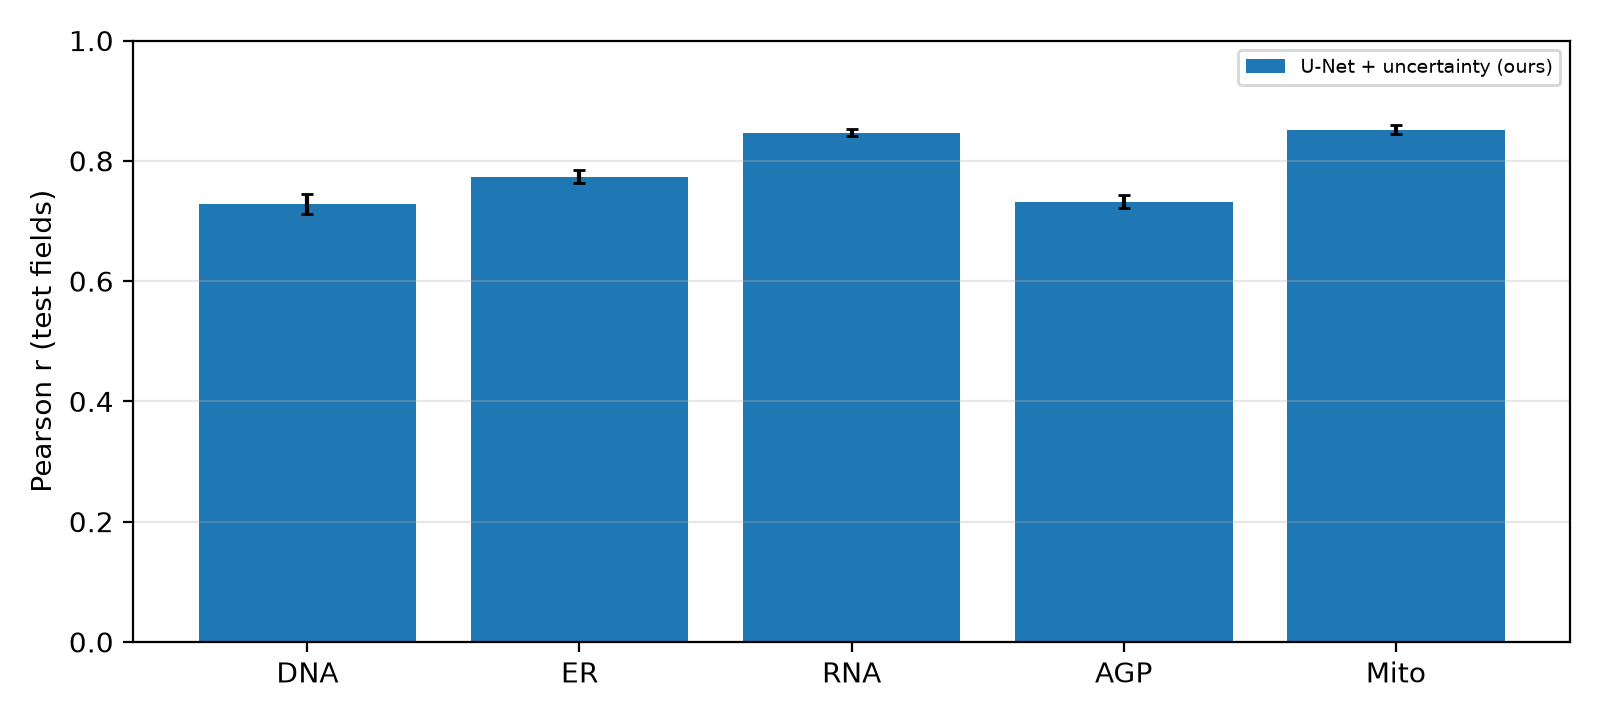
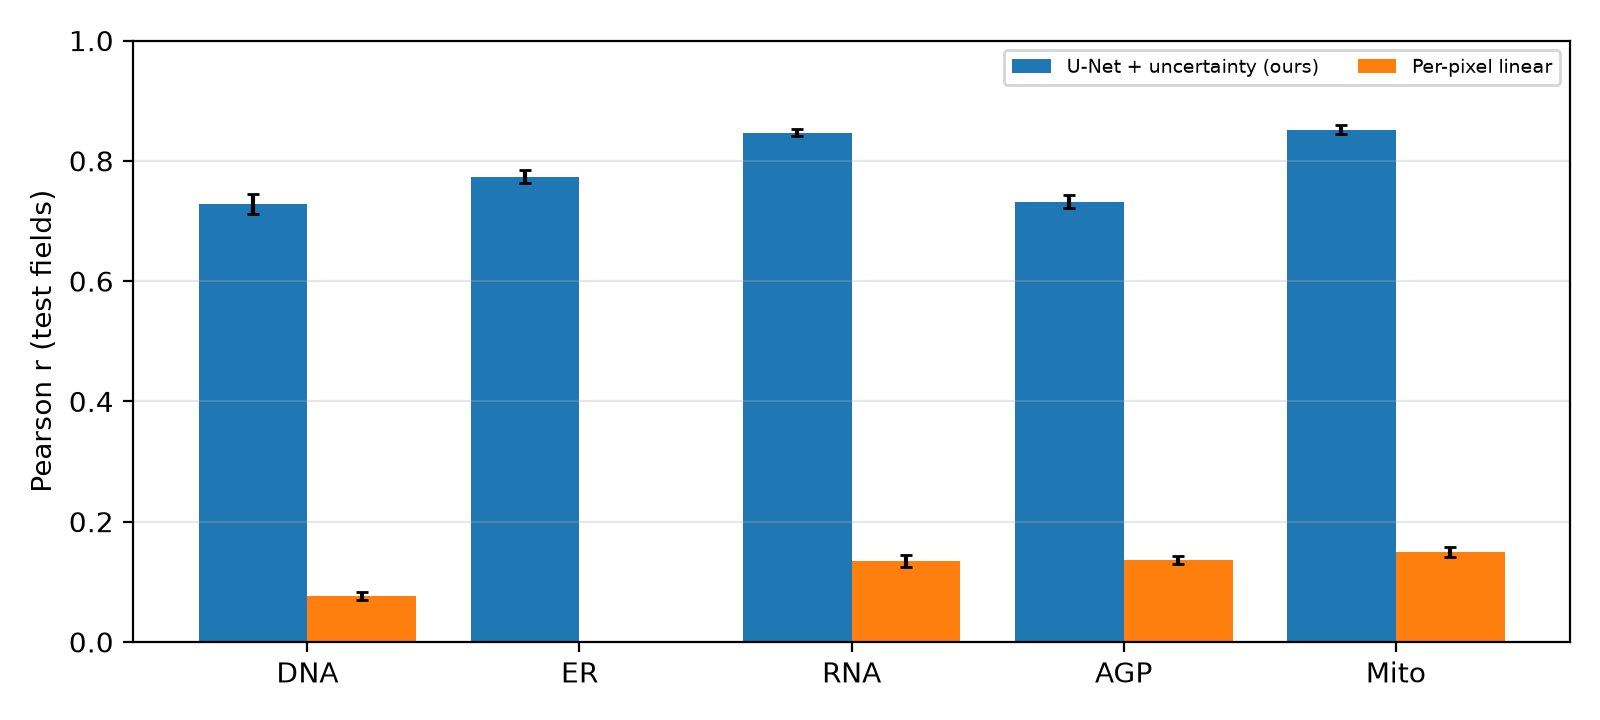
unet_short experiment (ours at the ablation budget), figure labels, regenerated figures

diff --git a/src/vptox/figures.py b/src/vptox/figures.py
@@ -24,7 +24,8 @@ import matplotlib.pyplot as plt  # noqa: E402
 from . import CHANNELS  # noqa: E402
 from .data import normalise_input, normalise_targets  # noqa: E402
 
-LABELS = {"unet": "U-Net + uncertainty (ours)", "unet_nounc": "U-Net, L1 only", "unet_jointnll": "U-Net, joint NLL",
+LABELS = {"unet": "U-Net + uncertainty (ours, 5k steps)", "unet_short": "U-Net + uncertainty (ours, 1.5k steps)",
+          "unet_nounc": "U-Net, L1 only", "unet_jointnll": "U-Net, joint NLL",
           "unet_ssim": "U-Net + SSIM", "smallcnn": "Shallow CNN", "linear": "Per-pixel linear",
           "unet_frac25": "U-Net, 25% wells", "unet_frac50": "U-Net, 50% wells", "unet_fullres": "U-Net, full resolution",
           "transfer_from_axiom": "Zero-shot from U2OS model", "transfer_from_hepatopac": "Zero-shot from HepatoPAC model"}

diff --git a/run_all.py b/run_all.py
@@ -31,6 +31,7 @@ EXPERIMENTS = {  # order = training order
     "unet_frac50": ["--model", "unet", "--train-frac", "0.5"],      # ablation: 50% of training wells
     "unet_fullres": ["--model", "unet"],                            # ablation: full resolution (0.59 um/px), npy override below
     "unet_ssim": ["--model", "unet", "--ssim-weight", "0.5"],       # ablation: + SSIM term
+    "unet_short": ["--model", "unet"],                              # ours at the ablation budget (1,500 steps) for like-for-like comparison
 }
 NPY_OVERRIDE = {"unet_fullres": "npy"}  # experiment -> data/<dataset>/<dir> with differently preprocessed stacks
 DATASET_EXPERIMENTS = {"hepatopac": list(EXPERIMENTS), "axiom": ["unet", "linear"]}

diff --git a/results/hepatopac/figures/results_table.tex b/results/hepatopac/figures/results_table.tex
@@ -2,6 +2,7 @@
 \toprule
 Model & DNA & ER & RNA & AGP & Mito & mean $r$ & mean SSIM & params (M) \\
 \midrule
+Per-pixel linear & 0.077 $\pm$ 0.007 & -0.111 $\pm$ 0.009 & 0.135 $\pm$ 0.010 & 0.136 $\pm$ 0.007 & 0.150 $\pm$ 0.008 & 0.077 & 0.143 & 0.00 \\
 U-Net + uncertainty (ours) & 0.729 $\pm$ 0.017 & 0.774 $\pm$ 0.011 & 0.847 $\pm$ 0.006 & 0.732 $\pm$ 0.011 & 0.852 $\pm$ 0.007 & 0.787 & 0.713 & 7.76 \\
 \bottomrule
 \end{tabular}

diff --git a/results/hepatopac/figures/results_table.md b/results/hepatopac/figures/results_table.md
@@ -1,3 +1,4 @@
 | Model | PCC DNA | PCC ER | PCC RNA | PCC AGP | PCC Mito | PCC mean | SSIM mean | params (M) |
 |---|---|---|---|---|---|---|---|---|
+| Per-pixel linear | 0.077 ± 0.007 | -0.111 ± 0.009 | 0.135 ± 0.010 | 0.136 ± 0.007 | 0.150 ± 0.008 | 0.077 | 0.143 | 0.00 |
 | U-Net + uncertainty (ours) | 0.729 ± 0.017 | 0.774 ± 0.011 | 0.847 ± 0.006 | 0.732 ± 0.011 | 0.852 ± 0.007 | 0.787 | 0.713 | 7.76 |
